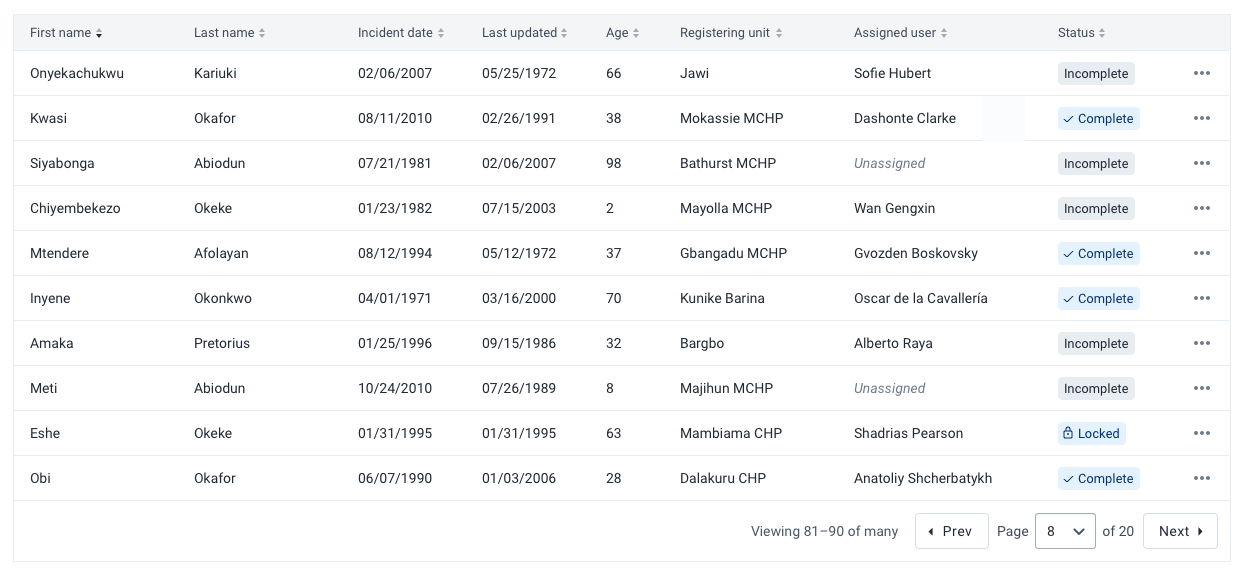
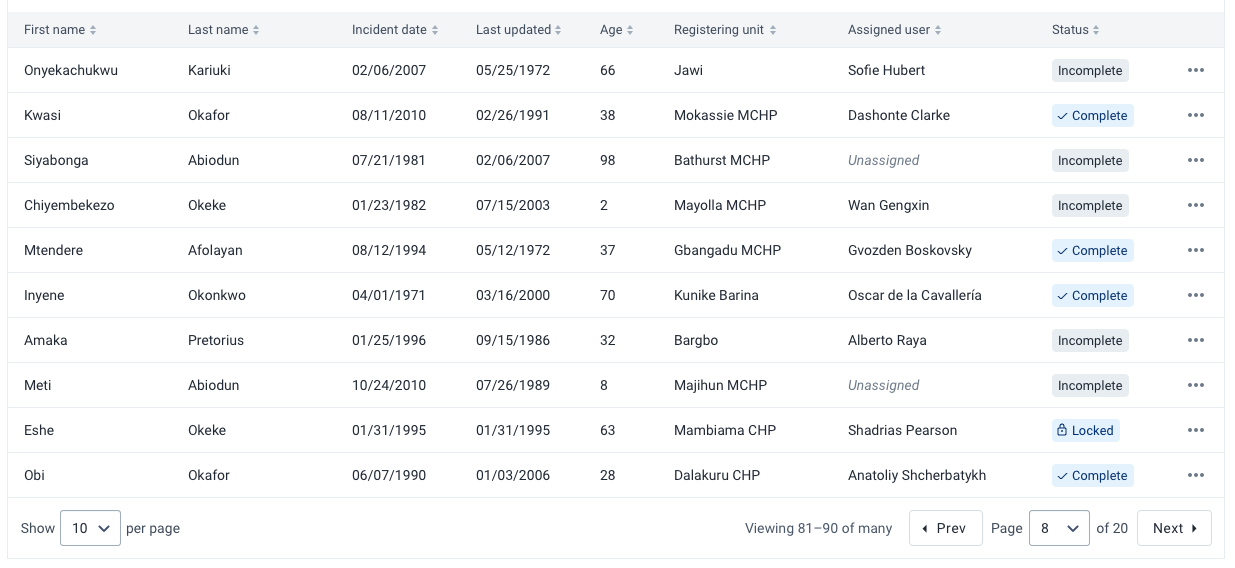
Pagination adjustments

diff --git a/molecules/pagination.md b/molecules/pagination.md
@@ -16,6 +16,7 @@ The pagination component is made up of several elements, some of which are optio
 1. **Previous & Next buttons, required**
 2. **Page control dropdown, optional**
 3. **Context information, optional**
+4. **Result count selector, optional**
 
 ### Types
 Different types of pagination are available by including different elements:
@@ -30,7 +31,10 @@ All elements are included, the user can page using the previous and next buttons
 
 Smaller datasets might not need full pagination controls. By only including the previous and next buttons a much simpler, compact component is available.
 
+#### Full pagination
+![](../images/pagination-full.png)
 
+Including all of the pagination elements results in a full-featured pagination control.
 ## Examples in use
 
 ![](../images/pagination-example.png)
